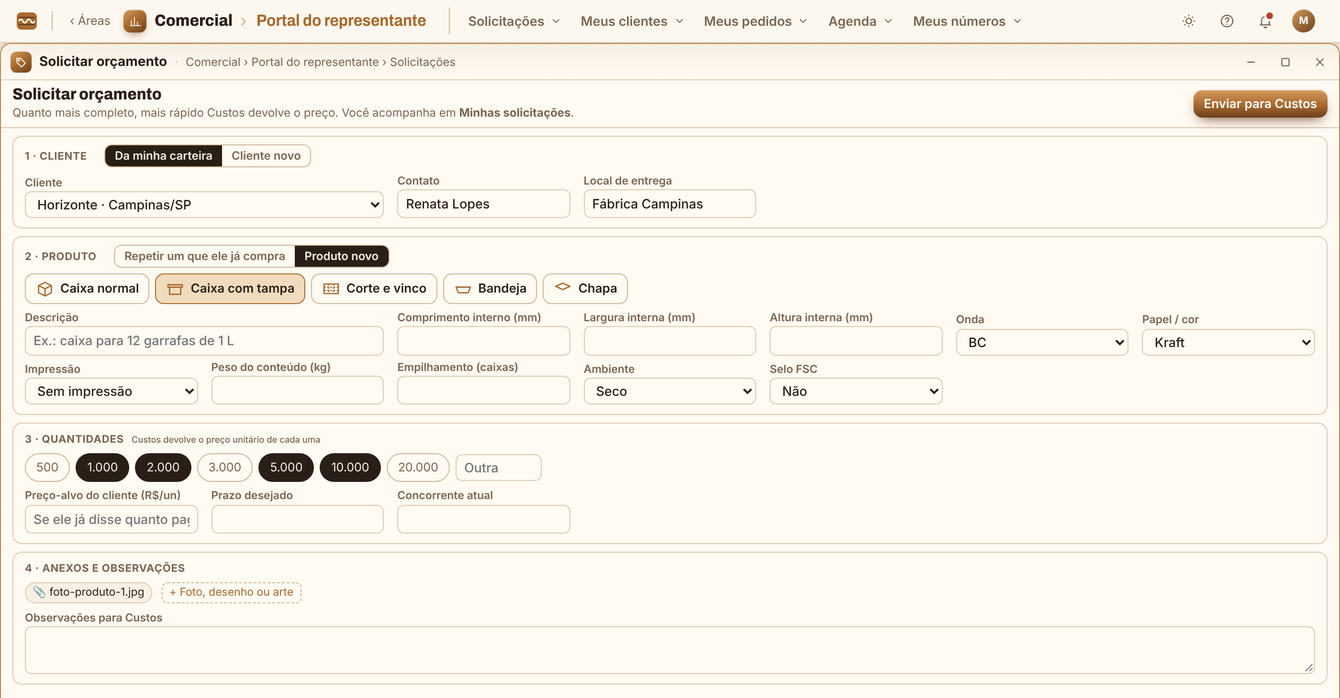
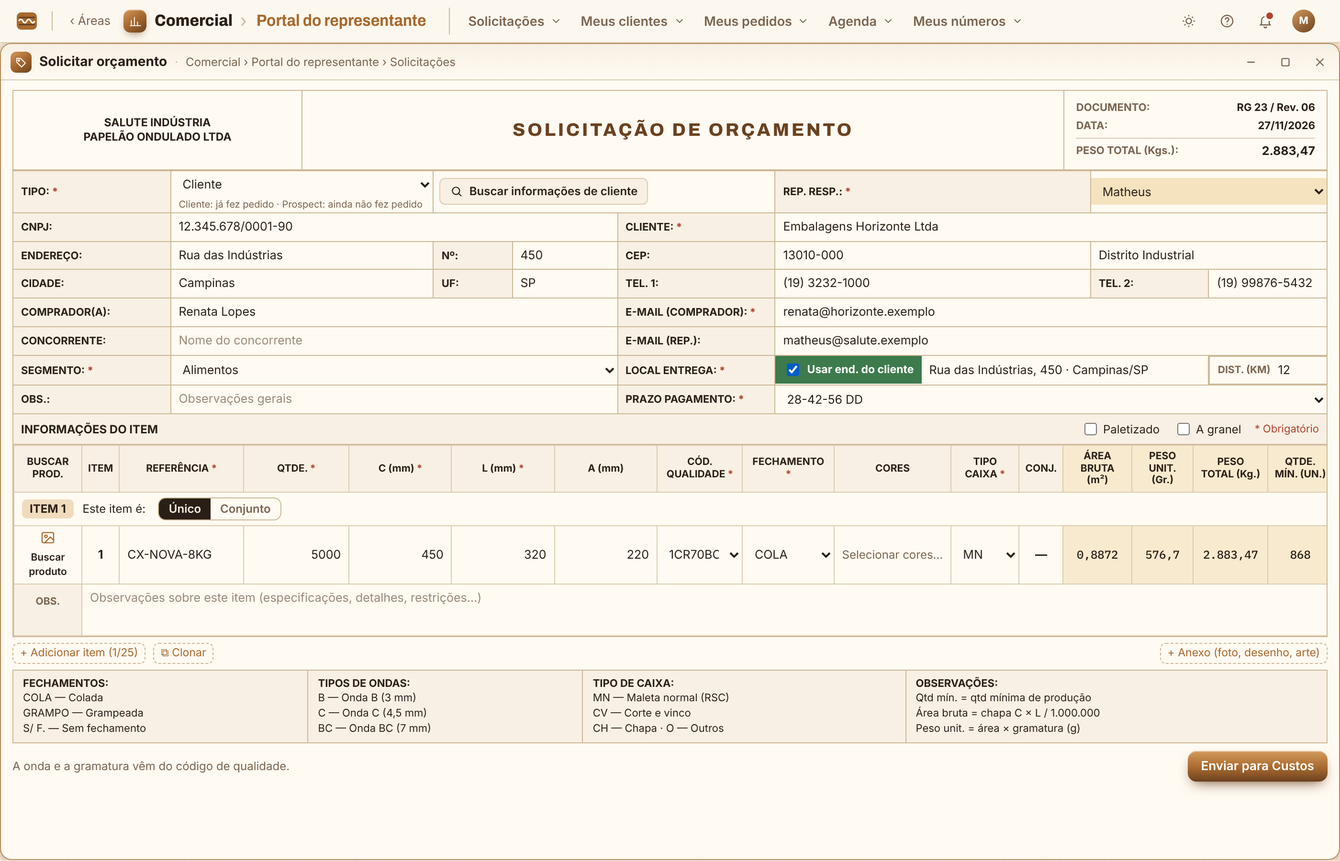
Portal: Solicitação de orçamento no layout da ficha do CRM Salute, com cores do ERP
Claude-Session: https://claude.ai/code/session_015kL8p4eCaL1huCADCSMStj

Changed region(s): [[0.0, 0.0, 1.0, 0.8938], [0.0, 0.9863, 1.0, 1.0], [0.87, 0.863, 0.9943, 0.9247]]

diff --git a/prototipo/tela-inicial-e-comercial.html b/prototipo/tela-inicial-e-comercial.html
@@ -574,6 +574,76 @@ textarea.falta{border-color:var(--bad)!important}
 .po-ped-cab .pill{margin-left:auto}
 .po-ped .pd-etapas{margin:4px 0 0}
 .cl-novo-reg{display:flex}
+/* Solicitação de orçamento: layout da ficha RG 23 do CRM Salute, cores do ERP */
+.so-folha{padding:10px 12px 14px;display:grid;gap:0;font-size:12.5px}
+.so-folha table{border-collapse:collapse;width:100%}
+.so-folha td,.so-folha th{border:1px solid var(--line-2);padding:0}
+.so-cab td{padding:8px 12px;background:var(--surface)}
+.so-emp{width:22%;text-align:center;font-weight:700;font-size:11.5px;line-height:1.3}
+.so-tit{text-align:center;font-family:var(--f-display);font-weight:800;font-size:19px;letter-spacing:.12em;color:var(--kraft-deep)}
+.so-doc{width:20%;font-size:11px}
+.so-doc div{display:flex;justify-content:space-between;gap:8px;padding:1px 0}
+.so-doc span{font-weight:700;color:var(--muted)}
+.so-peso{border-top:1px solid var(--line);margin-top:4px;padding-top:4px!important}
+.so-peso b{font-size:12.5px}
+.so-grade{border-top:0}
+.so-grade>tbody>tr>th,.so-grade>tr>th{background:var(--surface-2);text-align:left;font-size:11px;font-weight:700;padding:5px 8px;white-space:nowrap;color:var(--ink)}
+.so-folha th i{font-style:normal;color:var(--bad)}
+.so-folha input,.so-folha select,.so-folha textarea{width:100%;border:0;background:transparent;font:inherit;font-size:12.5px;color:var(--ink);padding:5px 8px;min-height:28px}
+.so-folha input::placeholder,.so-folha textarea::placeholder{color:var(--muted);opacity:.75}
+.so-folha input:focus,.so-folha select:focus,.so-folha textarea:focus{outline:2px solid var(--kraft);outline-offset:-2px;background:var(--surface)}
+.so-folha input.num{text-align:right}
+.so-ajuda{display:block;font-size:10px;color:var(--muted);padding:0 8px 3px;line-height:1.2}
+.so-busca{display:inline-flex;align-items:center;gap:6px;margin:4px 6px;border:1px solid var(--line);background:var(--surface-2);border-radius:6px;padding:4px 10px;font-size:12px;font-weight:600;cursor:pointer}
+.so-busca svg{width:14px;height:14px}
+.so-lista{display:grid;margin:0 6px 6px;border:1px solid var(--line-2);border-radius:8px;background:var(--surface);max-height:160px;overflow:auto}
+.so-lista button{border:0;background:transparent;text-align:left;padding:5px 10px;cursor:pointer;font-size:12.5px}
+.so-lista button:hover{background:var(--kraft-soft)}
+.so-lista small{color:var(--muted)}
+.so-dest select{background:var(--warn-soft)}
+.so-fixo{padding:5px 8px!important}
+.so-usar{display:flex;align-items:center;gap:5px;padding:5px 8px;font-size:11.5px;font-weight:700;cursor:pointer;white-space:nowrap;background:var(--surface-2)}
+.so-usar input{width:auto;min-height:0}
+.so-ent{display:flex;align-items:stretch}
+.so-ent input{flex:1}
+.so-usar.on{background:var(--ok);color:#fff}
+.so-dist{display:flex;align-items:center}
+.so-dist span{font-size:10.5px;font-weight:700;color:var(--muted);padding-left:8px;white-space:nowrap}
+.so-secao{display:flex;justify-content:space-between;align-items:center;padding:6px 8px;border:1px solid var(--line-2);border-top:0;background:var(--surface-2);font-size:12px}
+.so-secao span{display:flex;gap:14px;align-items:center;font-size:12px}
+.so-secao label{display:flex;gap:4px;align-items:center}
+.so-secao input{width:auto;min-height:0}
+.so-secao i{font-style:normal;color:var(--bad);font-size:11px}
+.so-rolagem{overflow-x:auto;border:1px solid var(--line-2);border-top:0}
+.so-itens{min-width:1500px}
+.so-itens td,.so-itens th{border-color:var(--line)}
+.so-itens>thead th{background:var(--surface-2);font-size:10.5px;font-weight:700;padding:5px 6px;text-align:center;line-height:1.2}
+.so-itens th.so-calc,.so-itens td.so-calc{background:color-mix(in srgb,var(--warn-soft) 70%,var(--surface));text-align:center}
+.so-itens td.so-calc{font-family:var(--f-mono);font-size:12px}
+.so-itcab td{padding:5px 8px!important;background:var(--surface);font-size:12px}
+.so-itnum{display:inline-block;background:var(--kraft-soft);border-radius:5px;padding:1px 8px;font-weight:700;margin-right:6px}
+.so-bp button{border:0;background:transparent;font-size:10.5px;font-weight:600;cursor:pointer;color:var(--ink);padding:4px}
+.so-bp svg{width:16px;height:16px;color:var(--kraft)}
+.so-n{text-align:center;font-weight:700}
+.so-forte{font-weight:700}
+.so-cores{position:relative}
+.so-cores summary{list-style:none;cursor:pointer;padding:5px 8px;font-size:12px;color:var(--muted);white-space:nowrap;overflow:hidden;text-overflow:ellipsis;max-width:190px}
+.so-cores div{position:absolute;z-index:5;background:var(--surface);border:1px solid var(--line-2);border-radius:8px;padding:6px 10px;display:grid;gap:2px;box-shadow:0 10px 24px -14px var(--shadow)}
+.so-cores label{display:flex;gap:6px;align-items:center;font-size:12px;white-space:nowrap}
+.so-cores input{width:auto;min-height:0}
+.so-comps td{padding:6px 8px!important;background:var(--surface-2)}
+.so-comps table th{font-size:10px;padding:3px 5px;background:var(--surface)}
+.so-comps table td{padding:0!important;background:var(--surface)}
+.so-na{display:block;text-align:center;color:var(--line-2)}
+.so-obs td{vertical-align:top}
+.so-obsrot{font-size:10.5px;font-weight:700;text-align:center;padding-top:10px!important;color:var(--muted);background:var(--surface-2)}
+.so-obs textarea{min-height:46px;resize:vertical}
+.so-acoes-it{display:flex;gap:8px;align-items:center;padding:6px 0;flex-wrap:wrap}
+.so-anexos{display:flex;gap:6px;align-items:center;margin-left:auto;flex-wrap:wrap}
+.so-legenda td{padding:6px 10px!important;font-size:11px;line-height:1.45;vertical-align:top;background:var(--surface-2)}
+.so-rodape{display:flex;align-items:center;gap:10px;justify-content:space-between;padding-top:8px;font-size:12px;color:var(--muted)}
+.so-erro{color:var(--bad)}
+.so-rodape .go{padding:6px 14px;font-size:13px}
 .cl-nome small b{font-size:inherit;font-family:inherit;font-weight:700;line-height:inherit}
 .pd-corpo .btn2,.pd-corpo .go{padding:5px 11px;font-size:13px}
 .ca-det>td{background:var(--surface-2);padding:6px 10px 8px!important}
@@ -3703,71 +3773,141 @@ const TIPOS_CAIXA = [
 const minhaCarteira = () => CLIENTES.filter(c => c.rep === REP_LOGADO);
 const pillSol = (s) => { const et = ETAPAS_SOL[s.tipo]; const fim = s.etapa >= et.length - 1; return `<span class="pill ${fim ? 'p-ok' : s.etapa >= 2 ? 'p-warn' : 'p-info'}">${et[s.etapa]}</span>`; };
 
-/* ── Solicitar orçamento ── */
+/* ── Solicitar orçamento: MESMO LAYOUT da "Solicitação de Orçamento" do CRM Salute (ficha RG 23),
+   com as cores do nosso ERP. Regras de cálculo iguais às do CRM Salute:
+   chapa MN = (C+L)×2+fator × L+A+fator (B/C: 40/10 · BC: 50/18); CV = C+30 × L+30; CH = C × L;
+   área = chapa/1.000.000 m²; peso unit = área × gramatura (g); qtde mín = 500.000 / peso unit. */
+const QUALIDADES = [['BFS','C',260],['1R40B','B',360],['1R40C','C',370],['1R45B','B',370],['1R45C','C',380],['1R70BC','BC',650],['1CR40B','B',360],['1CR40C','C',370],['1CR45B','B',370],['1CR45C','C',380],['1CR50B','B',410],['1CR50C','C',420],['1CR55B','B',420],['1CR55C','C',430],['3CR45B','B',380],['3CR45C','C',390],['1CR70BC','BC',650],['1CR75BC','BC',680],['1CR80BC','BC',710],['1TL50B','B',410],['1TL55C','C',430],['1TL60C','C',450],['1TL65C','C',490],['1TL70C','C',530],['1TL80BC','BC',680],['1TL90BC','BC',700]];
+const QD = Object.fromEntries(QUALIDADES.map(([n, o, g]) => [n, { onda:o, gram:g }]));
+const SEGMENTOS_SO = ['Alimentos','Avicultura (ovos)','Bebidas (refrigerantes e alcoólicos)','Chapa (produto chapa)','Cosméticos (cremes, perfumes)','Farmacêuticos (medicamentos)','Fumos','Horticultura e Fruticultura','Higiene e Limpeza','Laticínios (leite, yogurt, queijos)','Madeira e Mobiliários','Materiais de Transporte (caixa mudança)','Material Elétrico e de Comunicação','Mecânica (automobilístico)','Metalúrgica','Plásticos e Borrachas (potes, tapetes)','Proteínas (abates e processados)','Químicos e derivados (óleo, graxa)','Têxteis, Vestuários, calçados','Vidros e Cerâmicas','Outros'];
+const PRAZOS_SO = ['10 DD','14-28 DD','21-28-35 DD','28 DD','28-35-42','28-42-56 DD','30 DD','30-45 DD','30-60 DD','35 DD','42 DD','45-60 DD','30-45-60','120 DD'];
+const CORES_SO = ['Preto','Azul','Vermelho','Verde','Amarelo','Laranja','Marrom','Branco'];
+const COMPONENTES_SO = ['Caixa','Colmeia','Divisória','Tabuleiro','Separador','Calço','Cantoneira','Divisória montada','Cinta'];
+const novoItemSO = (n) => ({ n, ref:'', qtd:0, c:0, l:0, a:0, qual:'', fech:'', cores:[], tipo:'', conj:false, comps:[], preco:'', obs:'' });
+function calcSO(it){
+  const q = QD[it.qual]; if (!q || it.c <= 0 || it.l <= 0) return { area:0, pu:0, pt:0, min:0, onda: q ? q.onda : '' };
+  let cc, ll;
+  if (it.tipo === 'CV') { cc = it.c + 30; ll = it.l + 30; }
+  else if (it.tipo === 'CH' || !it.a) { cc = it.c; ll = it.l; }
+  else { const f = q.onda === 'BC' ? [50, 18] : [40, 10]; cc = (it.c + it.l) * 2 + f[0]; ll = it.l + it.a + f[1]; }
+  const area = cc * ll / 1e6, pu = area * q.gram;
+  return { area, pu, pt: pu * it.qtd / 1000, min: pu > 0 ? Math.ceil(500000 / pu) : 0, onda: q.onda };
+}
+const n2 = (v, d = 2) => (+v || 0).toLocaleString('pt-BR', { minimumFractionDigits:d, maximumFractionDigits:d });
+const sel = (k, val, ops, extra = '') => `<select data-so="${k}" ${extra}><option value="">Selecione…</option>${ops.map(o => { const [v, t] = Array.isArray(o) ? o : [o, o]; return `<option value="${esc(v)}"${String(val) === String(v) ? ' selected' : ''}>${esc(t)}</option>`; }).join('')}</select>`;
+const inp = (k, val, ph = '', extra = '') => `<input data-so="${k}" value="${esc(String(val ?? ''))}" placeholder="${esc(ph)}" ${extra}>`;
+
 TELAS.portalOrcamento = (box) => {
-  box.classList.add('cl-box'); box._q = [1000, 2000, 5000]; box._tipo = 'normal'; box._modoCli = 'carteira'; box._modoProd = 'novo'; box._anexos = [];
-  if (box._preCli) { box._cli = box._preCli; box._modoProd = (PRODUTOS_CLI[box._cli] || []).length ? 'repetir' : 'novo'; }
-  const desenha = () => {
-    const cart = minhaCarteira().filter(c => c.status === 'Ativo');
-    const cliSel = box._cli ? cliDe(box._cli) : null, prods = cliSel ? (PRODUTOS_CLI[cliSel.id] || []) : [];
-    box.innerHTML = `<div class="cl-ficha editando"><div class="cl-cab"><div class="cl-nome"><b>Solicitar orçamento</b><small>Quanto mais completo, mais rápido Custos devolve o preço. Você acompanha em <b>Minhas solicitações</b>.</small></div>
-      <span class="cl-acoes"><button class="go" type="button" data-po-enviar>Enviar para Custos</button></span></div>
-    <div class="pd-corpo">
-      <section class="cl-bloco"><h4>1 · Cliente <span class="po-seg"><button type="button" data-po-mcli="carteira" aria-pressed="${box._modoCli === 'carteira'}">Da minha carteira</button><button type="button" data-po-mcli="novo" aria-pressed="${box._modoCli === 'novo'}">Cliente novo</button></span></h4>
-        ${box._modoCli === 'carteira' ? `<div class="cl-grade"><label class="cf dupla"><span>Cliente</span><select id="poCli"><option value="">Escolha…</option>${cart.map(c => `<option value="${c.id}"${box._cli === c.id ? ' selected' : ''}>${esc(nomeExib(c))} · ${esc(c.end.cidade)}/${c.end.uf}</option>`).join('')}</select></label>
-            ${cliSel ? f('Contato', (cliSel.contatos[0] || {}).nome) + f('Local de entrega', (cliSel.entregas[0] || {}).nome || '') : ''}</div>`
-        : `<div class="cl-grade">${f('CNPJ', '', { ph:'00.000.000/0000-00', botao:['Buscar na Receita','po-receita'] })}${f('Razão social', box._novoRazao || '', { dupla:true, ph:'Preenchido pela Receita' })}${f('Cidade/UF', box._novoCid || '')}
-            ${f('Contato', '')}${f('Telefone', '')}${f('E-mail', '')}${f('Segmento / o que o cliente embala', '', { dupla:true })}</div>
-            <div class="cl-txt">O pessoal de Vendas cadastra o cliente com esses dados. Você não precisa preencher mais nada.</div>`}
-      </section>
-      <section class="cl-bloco"><h4>2 · Produto ${prods.length ? `<span class="po-seg"><button type="button" data-po-mprod="repetir" aria-pressed="${box._modoProd === 'repetir'}">Repetir um que ele já compra</button><button type="button" data-po-mprod="novo" aria-pressed="${box._modoProd === 'novo'}">Produto novo</button></span>` : ''}</h4>
-        ${box._modoProd === 'repetir' && prods.length ? `<div class="pd-prods">${prods.map(pr => `<label class="pd-prod po-rep"><input type="radio" name="poRep" value="${pr.cod}"> <b>${esc(pr.desc)}</b><small>${pr.cod} · ${pr.med} · onda ${pr.onda}</small></label>`).join('')}</div><div class="cl-grade">${f('O que muda?', '', { dupla:true, ph:'Ex.: nova quantidade, nova arte, papel diferente' })}</div>`
-        : `<div class="po-tipos">${TIPOS_CAIXA.map(([k, n, d]) => `<button type="button" class="po-tipo" data-po-tipo="${k}" aria-pressed="${box._tipo === k}"><svg viewBox="0 0 24 24" fill="none" stroke="currentColor" stroke-width="1.6" stroke-linejoin="round">${d}</svg>${n}</button>`).join('')}</div>
-          <div class="cl-grade">
-            ${f('Descrição', '', { dupla:true, ph:'Ex.: caixa para 12 garrafas de 1 L' })}
-            ${box._tipo === 'chapa' ? f('Comprimento (mm)', '') + f('Largura (mm)', '') : f('Comprimento interno (mm)', '') + f('Largura interna (mm)', '') + f('Altura interna (mm)', '')}
-            ${f('Onda', 'BC', { opcoes:['B','C','BC','E','Não sei — Custos sugere'] })}
-            ${f('Papel / cor', 'Kraft', { opcoes:['Kraft','Branco','Não sei — Custos sugere'] })}
-            ${f('Impressão', 'Sem impressão', { opcoes:['Sem impressão','1 cor','2 cores','3 cores','4 cores'] })}
-            ${f('Peso do conteúdo (kg)', '')}${f('Empilhamento (caixas)', '')}
-            ${f('Ambiente', 'Seco', { opcoes:['Seco','Úmido','Câmara fria / congelado'] })}
-            ${f('Selo FSC', 'Não', { opcoes:['Não','Sim'] })}</div>`}
-      </section>
-      <section class="cl-bloco"><h4>3 · Quantidades <small>Custos devolve o preço unitário de cada uma</small></h4>
-        <div class="po-qtds">${[500, 1000, 2000, 3000, 5000, 10000, 20000].map(q => `<button type="button" class="chip" data-po-q="${q}" aria-pressed="${box._q.includes(q)}">${q.toLocaleString('pt-BR')}</button>`).join('')}<label class="cf po-outra"><input placeholder="Outra"></label></div>
-        <div class="cl-grade">${f('Preço-alvo do cliente (R$/un)', '', { ph:'Se ele já disse quanto paga hoje' })}${f('Prazo desejado', '')}${f('Concorrente atual', '')}</div>
-      </section>
-      <section class="cl-bloco"><h4>4 · Anexos e observações</h4>
-        <div class="po-anexos">${box._anexos.map(a => `<span class="pd-ent">📎 ${esc(a)}</span>`).join('')}<button type="button" class="pd-mais" data-po-anexo>+ Foto, desenho ou arte</button></div>
-        <div class="cl-grade">${f('Observações para Custos', '', { texto:true, larga:true })}</div>
-      </section>
-    </div></div>`;
-    box.querySelectorAll('input,select,textarea').forEach(el => el.disabled = false);
-  };
-  box.addEventListener('change', (e) => { if (e.target.id === 'poCli') { box._cli = +e.target.value || null; box._modoProd = (PRODUTOS_CLI[box._cli] || []).length ? 'repetir' : 'novo'; desenha(); } });
-  box.addEventListener('click', (e) => {
-    const t = (s) => e.target.closest(s);
-    if (t('[data-po-mcli]')) { box._modoCli = t('[data-po-mcli]').dataset.poMcli; box._cli = null; box._modoProd = 'novo'; return desenha(); }
-    if (t('[data-po-mprod]')) { box._modoProd = t('[data-po-mprod]').dataset.poMprod; return desenha(); }
-    if (t('[data-po-tipo]')) { box._tipo = t('[data-po-tipo]').dataset.poTipo; return desenha(); }
-    if (t('[data-po-q]')) { const q = +t('[data-po-q]').dataset.poQ; box._q = box._q.includes(q) ? box._q.filter(x => x !== q) : box._q.concat(q).sort((a, b) => a - b); return desenha(); }
-    if (t('[data-acao-f="po-receita"]')) { box._novoRazao = 'Bebidas Serra Clara Ltda'; box._novoCid = 'Jundiaí/SP'; desenha(); return toast('Dados trazidos da Receita (exemplo)'); }
-    if (t('[data-po-anexo]')) { box._anexos.push('foto-produto-' + (box._anexos.length + 1) + '.jpg'); return desenha(); }
-    if (t('[data-po-enviar]')) {
-      if (box._modoCli === 'carteira' && !box._cli) return toast('Escolha o cliente');
-      if (!box._q.length) return toast('Escolha pelo menos uma quantidade');
-      const n = 'SO-2026-' + String(Math.max(...SOLICITACOES.map(s => +s.p.slice(-4))) + 1).padStart(4, '0');
-      const c = box._cli ? cliDe(box._cli) : null;
-      SOLICITACOES.unshift({ p:n, tipo:'Orçamento', cli: c ? nomeExib(c) : (box._novoRazao || 'Cliente novo'), novo: !c, prod: (box.querySelector('input[placeholder^="Ex.: caixa"]') || {}).value || 'Produto', data:'27/11', etapa:0, resp:'Custos' });
-      box.innerHTML = `<div class="cl-novo-tela"><div class="okbox"><span>✓</span><span>Solicitação <b class="proto">${n}</b> enviada para <b>Custos</b>.<br>Quantidades: ${box._q.map(q => q.toLocaleString('pt-BR')).join(' · ')}. Você recebe aviso quando o preço estiver pronto.</span></div>
-        <div><button class="btn2" type="button" data-po-nova>Nova solicitação</button></div></div>`;
-      document.querySelectorAll('[data-po-lista]').forEach(b => b._redesenha && b._redesenha());
-      return;
-    }
-    if (t('[data-po-nova]')) { box._cli = null; box._anexos = []; box._q = [1000, 2000, 5000]; return desenha(); }
-  });
-  desenha();
+  box.classList.add('cl-box');
+  const st = box._so = { tipo:'', cli:null, rep: REP_LOGADO, cnpj:'', nome:'', end:'', num:'', cep:'', bairro:'', cidade:'', uf:'', tel1:'', tel2:'', comprador:'', email:'', concorrente:'', segmento:'', entrega:'', usarEnd:false, dist:'', obs:'', prazo:'', paletizado:false, granel:false, itens:[ novoItemSO(1) ], ativo:0 };
+  if (box._preCli) preencherCli(st, box._preCli);
+  desenharSO(box);
+  box.addEventListener('input', (e) => lerCampoSO(box, e.target, false));
+  box.addEventListener('change', (e) => lerCampoSO(box, e.target, true));
+  box.addEventListener('click', (e) => cliqueSO(box, e));
 };
+function preencherCli(st, id){
+  const c = cliDe(id); if (!c) return;
+  const k = c.contatos[0] || {};
+  Object.assign(st, { tipo: ehCli(c) ? 'Cliente' : 'Prospect', cli:id, cnpj:c.cnpj, nome:c.razao, end:c.end.log, num:c.end.num, cep:c.end.cep, bairro:c.end.bairro, cidade:c.end.cidade, uf:c.end.uf,
+    tel1:k.tel || '', tel2:k.cel || '', comprador:k.nome || '', email:k.email || '', segmento: SEGMENTOS_SO.find(s => norm(s).includes(norm(c.segmento).slice(0,5))) || '', prazo:'28-42-56 DD' });
+}
+function lerCampoSO(box, el, redesenha){
+  const k = el.dataset.so; if (!k) return;
+  const st = box._so, v = el.type === 'checkbox' ? el.checked : el.value;
+  const m = k.match(/^it(\d+)\.(\w+)$/), mc = k.match(/^it(\d+)\.comp(\d+)\.(\w+)$/);
+  if (mc) { const comp = st.itens[+mc[1]].comps[+mc[2]]; comp[mc[3]] = ['qtd','c','l','a'].includes(mc[3]) ? (+String(v).replace(/\./g, '').replace(',', '.') || 0) : v; }
+  else if (m) { const it = st.itens[+m[1]]; it[m[2]] = ['qtd','c','l','a'].includes(m[2]) ? (+String(v).replace(/\./g, '').replace(',', '.') || 0) : v; }
+  else st[k] = v;
+  if (k === 'tipo' && v === 'Cliente' && !st.cli) toast('Use "Buscar informações de cliente" para puxar os dados');
+  if (redesenha && (k === 'usarEnd' || /\.(qual|tipo)$/.test(k))) { if (k === 'usarEnd' && v) st.entrega = st.end ? `${st.end}, ${st.num} · ${st.cidade}/${st.uf}` : ''; return desenharSO(box); }
+  atualizarCalcSO(box);
+}
+function atualizarCalcSO(box){
+  const st = box._so; let tot = 0;
+  st.itens.forEach((it, i) => { const r = calcSO(it); tot += r.pt;
+    const set = (s, t) => { const e = box.querySelector(`[data-calc="${i}.${s}"]`); if (e) e.textContent = t; };
+    set('area', n2(r.area, 4)); set('pu', n2(r.pu, 1)); set('pt', n2(r.pt)); set('min', r.min ? un(r.min) : '0'); });
+  const h = box.querySelector('[data-so-peso]'); if (h) h.textContent = n2(tot);
+}
+function desenharSO(box){
+  const st = box._so, nItens = st.itens.length;
+  const tot = st.itens.reduce((a, it) => a + calcSO(it).pt, 0);
+  const R = (rot, obrig) => `<th>${rot}${obrig ? ' <i>*</i>' : ''}</th>`;
+  box.innerHTML = `<div class="so-folha">
+  <table class="so-cab"><tr>
+    <td class="so-emp">SALUTE INDÚSTRIA<br>PAPELÃO ONDULADO LTDA</td>
+    <td class="so-tit">SOLICITAÇÃO DE ORÇAMENTO</td>
+    <td class="so-doc"><div><span>DOCUMENTO:</span><b>RG 23 / Rev. 06</b></div><div><span>DATA:</span><b>27/11/2026</b></div><div class="so-peso"><span>PESO TOTAL (Kgs.):</span><b data-so-peso>${n2(tot)}</b></div></td>
+  </tr></table>
+  <table class="so-grade">
+    <colgroup><col style="width:12%"><col style="width:20%"><col style="width:6%"><col style="width:8%"><col style="width:12%"><col style="width:24%"><col style="width:9%"><col style="width:9%"></colgroup>
+    <tr>${R('TIPO:', 1)}<td>${sel('tipo', st.tipo, ['Cliente','Prospect'])}<small class="so-ajuda">Cliente: já fez pedido · Prospect: ainda não fez pedido</small></td>
+      <td colspan="3"><button type="button" class="so-busca" data-so-buscar>${LUPA} Buscar informações de cliente</button>${st.buscando ? `<div class="so-lista">${minhaCarteira().map(c => `<button type="button" data-so-cli="${c.id}"><b>${esc(nomeExib(c))}</b> <small>${c.cnpj} · ${esc(c.end.cidade)}</small></button>`).join('')}</div>` : ''}</td>
+      ${R('REP. RESP.:', 1)}<td colspan="2" class="so-dest">${sel('rep', st.rep, [REP_LOGADO])}</td></tr>
+    <tr>${R('CNPJ:')}<td colspan="3">${inp('cnpj', st.cnpj, '00.000.000/0000-00')}</td>${R('CLIENTE:', 1)}<td colspan="3">${inp('nome', st.nome, 'Nome do cliente / prospect *')}</td></tr>
+    <tr>${R('ENDEREÇO:')}<td>${inp('end', st.end, 'Rua / Av.')}</td>${R('Nº:')}<td>${inp('num', st.num, 'Nº')}</td>${R('CEP:')}<td>${inp('cep', st.cep, '00000-000')}</td><td colspan="2">${inp('bairro', st.bairro, 'Bairro')}</td></tr>
+    <tr>${R('CIDADE:')}<td>${inp('cidade', st.cidade, 'Cidade')}</td>${R('UF:')}<td>${inp('uf', st.uf, 'SP')}</td>${R('TEL. 1:')}<td>${inp('tel1', st.tel1, '(11) 00000-0000')}</td>${R('TEL. 2:')}<td>${inp('tel2', st.tel2, '(11) 00000-0000')}</td></tr>
+    <tr>${R('COMPRADOR(A):')}<td colspan="3">${inp('comprador', st.comprador, 'Nome do comprador')}</td>${R('E-MAIL (COMPRADOR):', 1)}<td colspan="3">${inp('email', st.email, 'email@empresa.com.br')}</td></tr>
+    <tr>${R('CONCORRENTE:')}<td colspan="3">${inp('concorrente', st.concorrente, 'Nome do concorrente')}</td>${R('E-MAIL (REP.):')}<td colspan="3" class="so-fixo">matheus@salute.exemplo</td></tr>
+    <tr>${R('SEGMENTO:', 1)}<td colspan="3">${sel('segmento', st.segmento, SEGMENTOS_SO)}</td>${R('LOCAL ENTREGA:', 1)}<td colspan="2"><div class="so-ent"><label class="so-usar${st.usarEnd ? ' on' : ''}"><input type="checkbox" data-so="usarEnd"${st.usarEnd ? ' checked' : ''}> Usar end. do cliente</label>${inp('entrega', st.entrega, 'Ou digite o endereço manualmente…')}</div></td><td class="so-dist"><span>DIST. (KM)</span>${inp('dist', st.dist || (st.usarEnd ? '12' : ''), '0')}</td></tr>
+    <tr>${R('OBS.:')}<td colspan="3">${inp('obs', st.obs, 'Observações gerais')}</td>${R('PRAZO PAGAMENTO:', 1)}<td colspan="3">${sel('prazo', st.prazo, PRAZOS_SO)}</td></tr>
+  </table>
+  <div class="so-secao"><b>INFORMAÇÕES DO ITEM</b><span><label><input type="checkbox" data-so="paletizado"${st.paletizado ? ' checked' : ''}> Paletizado</label><label><input type="checkbox" data-so="granel"${st.granel ? ' checked' : ''}> A granel</label><i>* Obrigatório</i></span></div>
+  <div class="so-rolagem"><table class="so-itens"><thead><tr><th>BUSCAR PROD.</th><th>ITEM</th>${R('REFERÊNCIA', 1)}${R('QTDE.', 1)}${R('C (mm)', 1)}${R('L (mm)', 1)}<th>A (mm)</th>${R('CÓD. QUALIDADE', 1)}${R('FECHAMENTO', 1)}<th>CORES</th>${R('TIPO CAIXA', 1)}<th>CONJ.</th><th class="so-calc">ÁREA BRUTA (m²)</th><th class="so-calc">PESO UNIT. (Gr.)</th><th class="so-calc">PESO TOTAL (Kg.)</th><th class="so-calc">QTDE. MÍN. (UN.)</th><th>PREÇO CONC. (R$/Unit.)</th></tr></thead>
+  <tbody>${st.itens.map((it, i) => { const r = calcSO(it), k = (c) => `it${i}.${c}`; return `
+    <tr class="so-itcab"><td colspan="17"><span class="so-itnum">ITEM ${it.n}</span> Este item é: <span class="po-seg"><button type="button" data-so-conj="${i}.0" aria-pressed="${!it.conj}">Único</button><button type="button" data-so-conj="${i}.1" aria-pressed="${it.conj}">Conjunto</button></span>${nItens > 1 ? `<button type="button" class="pd-x" data-so-rm="${i}" title="Remover item">×</button>` : ''}</td></tr>
+    <tr><td class="so-bp"><button type="button" data-so-prod="${i}">${IIMG}<br>Buscar produto</button></td><td class="so-n">${it.n}</td>
+      <td>${inp(k('ref'), it.ref, 'Ref.')}</td><td>${inp(k('qtd'), it.qtd || '', '0', 'class="num"')}</td><td>${inp(k('c'), it.c || '', '0', 'class="num"')}</td><td>${inp(k('l'), it.l || '', '0', 'class="num"')}</td><td>${inp(k('a'), it.a || '', '0', 'class="num"')}</td>
+      <td>${sel(k('qual'), it.qual, QUALIDADES.map(q => q[0]), 'class="so-forte"')}</td><td>${sel(k('fech'), it.fech, [['COLA','COLA'],['GRAMPO','GRAMPO'],['S/ F.','S/ F.']])}</td>
+      <td><details class="so-cores"><summary>${it.cores.length ? esc(it.cores.join(', ')) : 'Selecionar cores…'}</summary><div>${CORES_SO.map(c => `<label><input type="checkbox" data-so-cor="${i}" value="${c}"${it.cores.includes(c) ? ' checked' : ''}> ${c}</label>`).join('')}</div></details></td>
+      <td>${sel(k('tipo'), it.tipo, [['MN','MN'],['CV','CV'],['CH','CH'],['O','O']])}</td><td class="so-n">${it.conj ? it.comps.length + 1 : '—'}</td>
+      <td class="so-calc" data-calc="${i}.area">${n2(r.area, 4)}</td><td class="so-calc" data-calc="${i}.pu">${n2(r.pu, 1)}</td><td class="so-calc" data-calc="${i}.pt">${n2(r.pt)}</td><td class="so-calc" data-calc="${i}.min">${r.min ? un(r.min) : '0'}</td>
+      <td>${inp(k('preco'), it.preco, 'R$ 0,00', 'class="num"')}</td></tr>
+    ${it.conj ? `<tr class="so-comps"><td colspan="17"><table><thead><tr><th>COMPONENTE</th><th>REFERÊNCIA</th><th>QTDE.</th><th>C (mm)</th><th>L (mm)</th><th>A (mm)</th><th>CÓD. QUALIDADE</th><th></th></tr></thead><tbody>${it.comps.map((cp, j) => { const kk = (c) => `it${i}.comp${j}.${c}`; return `<tr><td>${sel(kk('tipo'), cp.tipo, COMPONENTES_SO)}</td><td>${inp(kk('ref'), cp.ref, 'Ref.')}</td><td>${inp(kk('qtd'), cp.qtd || '', '0', 'class="num"')}</td><td>${inp(kk('c'), cp.c || '', '0', 'class="num"')}</td><td>${inp(kk('l'), cp.l || '', '0', 'class="num"')}</td><td>${cp.tipo === 'Caixa' ? inp(kk('a'), cp.a || '', '0', 'class="num"') : '<span class="so-na">✕</span>'}</td><td>${sel(kk('qual'), cp.qual, QUALIDADES.map(q => q[0]))}</td><td><button type="button" class="pd-x" data-so-rmc="${i}.${j}">×</button></td></tr>`; }).join('')}</tbody></table><button type="button" class="pd-mais" data-so-addc="${i}">+ Componente</button></td></tr>` : ''}
+    <tr class="so-obs"><td class="so-obsrot">OBS.</td><td colspan="16"><textarea data-so="${k('obs')}" placeholder="Observações sobre este item (especificações, detalhes, restrições…)">${esc(it.obs)}</textarea></td></tr>`; }).join('')}
+  </tbody></table></div>
+  <div class="so-acoes-it"><button type="button" class="pd-mais" data-so-add${nItens >= 25 ? ' disabled' : ''}>+ Adicionar item (${nItens}/25)</button><button type="button" class="pd-mais" data-so-clonar>⧉ Clonar</button>
+    <span class="so-anexos">${(st.anexos || []).map(a => `<span class="pd-ent">📎 ${esc(a)}</span>`).join('')}<button type="button" class="pd-mais" data-so-anexo>+ Anexo (foto, desenho, arte)</button></span></div>
+  <table class="so-legenda"><tr>
+    <td><b>FECHAMENTOS:</b><br>COLA — Colada<br>GRAMPO — Grampeada<br>S/ F. — Sem fechamento</td>
+    <td><b>TIPOS DE ONDAS:</b><br>B — Onda B (3 mm)<br>C — Onda C (4,5 mm)<br>BC — Onda BC (7 mm)</td>
+    <td><b>TIPO DE CAIXA:</b><br>MN — Maleta normal (RSC)<br>CV — Corte e vinco<br>CH — Chapa · O — Outros</td>
+    <td><b>OBSERVAÇÕES:</b><br>Qtd mín. = qtd mínima de produção<br>Área bruta = chapa C × L / 1.000.000<br>Peso unit. = área × gramatura (g)</td>
+  </tr></table>
+  <div class="so-rodape"><span>A onda e a gramatura vêm do código de qualidade.</span><button type="button" class="go" data-so-enviar>Enviar para Custos</button></div>
+  </div>`;
+}
+function cliqueSO(box, e){
+  const st = box._so, t = (s) => e.target.closest(s);
+  if (t('[data-so-buscar]')) { st.buscando = !st.buscando; return desenharSO(box); }
+  if (t('[data-so-cli]')) { preencherCli(st, +t('[data-so-cli]').dataset.soCli); st.buscando = false; desenharSO(box); return toast('Dados do cliente preenchidos'); }
+  if (t('[data-so-conj]')) { const [i, v] = t('[data-so-conj]').dataset.soConj.split('.'); const it = st.itens[+i]; it.conj = v === '1'; if (it.conj && !it.comps.length) it.comps.push({ tipo:'Divisória', ref:'', qtd:0, c:0, l:0, a:0, qual:'' }); return desenharSO(box); }
+  if (t('[data-so-addc]')) { st.itens[+t('[data-so-addc]').dataset.soAddc].comps.push({ tipo:'Divisória', ref:'', qtd:0, c:0, l:0, a:0, qual:'' }); return desenharSO(box); }
+  if (t('[data-so-rmc]')) { const [i, j] = t('[data-so-rmc]').dataset.soRmc.split('.'); st.itens[+i].comps.splice(+j, 1); return desenharSO(box); }
+  if (t('[data-so-add]')) { if (st.itens.length < 25) st.itens.push(novoItemSO(st.itens.length + 1)); return desenharSO(box); }
+  if (t('[data-so-clonar]')) { if (st.itens.length >= 25) return; const u = st.itens[st.itens.length - 1]; st.itens.push({ ...JSON.parse(JSON.stringify(u)), n: st.itens.length + 1 }); return desenharSO(box); }
+  if (t('[data-so-rm]')) { st.itens.splice(+t('[data-so-rm]').dataset.soRm, 1); st.itens.forEach((it, i) => it.n = i + 1); return desenharSO(box); }
+  if (t('[data-so-prod]')) { const i = +t('[data-so-prod]').dataset.soProd, prods = st.cli ? (PRODUTOS_CLI[st.cli] || []) : [];
+    if (!prods.length) return toast(st.cli ? 'Este cliente ainda não tem produtos' : 'Busque o cliente primeiro');
+    const pr = prods[0], [c, l, a] = pr.med.split('×').map(Number); Object.assign(st.itens[i], { ref: pr.cod, c, l, a: a || 0, tipo: a ? 'MN' : 'CH', qual: pr.onda === 'BC' ? '1CR70BC' : pr.onda === 'B' ? '1CR40B' : '1CR40C', fech:'COLA' });
+    desenharSO(box); return toast('Produto da carteira: ' + pr.desc); }
+  const cor = e.target.closest('[data-so-cor]');
+  if (cor && e.target.tagName === 'INPUT') { const it = st.itens[+cor.dataset.soCor]; it.cores = e.target.checked ? it.cores.concat(e.target.value) : it.cores.filter(x => x !== e.target.value); e.target.closest('details').querySelector('summary').textContent = it.cores.length ? it.cores.join(', ') : 'Selecionar cores…'; return; }
+  if (t('[data-so-anexo]')) { st.anexos = (st.anexos || []).concat('arquivo-' + ((st.anexos || []).length + 1) + '.pdf'); return desenharSO(box); }
+  if (t('[data-so-enviar]')) {
+    const falta = [];
+    if (!st.tipo) falta.push('Tipo'); if (!st.nome) falta.push('Cliente'); if (!st.email) falta.push('E-mail do comprador'); if (!st.segmento) falta.push('Segmento');
+    if (!st.entrega && !st.usarEnd) falta.push('Local de entrega'); if (!st.prazo) falta.push('Prazo de pagamento');
+    st.itens.forEach(it => { const f = []; if (!it.ref) f.push('Referência'); if (!it.qtd) f.push('Qtde'); if (!it.c) f.push('C'); if (!it.l) f.push('L'); if (!it.qual) f.push('Cód. qualidade'); if (!it.fech) f.push('Fechamento'); if (!it.tipo) f.push('Tipo caixa'); if (f.length) falta.push(`Item ${it.n}: ${f.join(', ')}`); });
+    if (falta.length) { box.querySelector('.so-rodape span').innerHTML = `<b class="so-erro">Falta preencher:</b> ${esc(falta.join(' · '))}`; return toast('Preencha os campos obrigatórios (*)'); }
+    const n = 'SO-2026-' + String(Math.max(...SOLICITACOES.map(s => +s.p.slice(-4))) + 1).padStart(4, '0');
+    SOLICITACOES.unshift({ p:n, tipo:'Orçamento', cli: st.nome, novo: st.tipo === 'Prospect' && !st.cli, prod: st.itens.map(it => it.ref).join(', '), data:'27/11', etapa:0, resp:'Custos' });
+    document.querySelectorAll('[data-po-lista]').forEach(b => b._redesenha && b._redesenha());
+    box.innerHTML = `<div class="cl-novo-tela"><div class="okbox"><span>✓</span><span>Solicitação <b class="proto">${n}</b> enviada para <b>Custos</b> · ${st.itens.length} ${st.itens.length > 1 ? 'itens' : 'item'} · peso total ${n2(st.itens.reduce((a, it) => a + calcSO(it).pt, 0))} kg.<br>Você acompanha em Minhas solicitações.</span></div><div><button class="btn2" type="button" data-so-nova>Nova solicitação</button></div></div>`;
+  }
+  if (t('[data-so-nova]')) { box._preCli = null; TELAS.portalOrcamento(box); }
+}
 
 /* ── Pedir amostra / clichê / desenvolvimento (mesmo formulário, tipo diferente) ── */
 const telaPedidoSimples = (tipo, oQue, para) => (box) => {

diff --git a/README.md b/README.md
@@ -687,18 +687,23 @@ do sistema (com IA) respeitando o que cada usuário pode acessar.
 ### Portal do representante — primeira versão para aprovar
 - O representante vê **só o que é dele** (carteira, pedidos, comissões) e **nunca custo ou
   margem**, só preço. Não lança pedido nem cadastra cliente: faz **solicitações**.
-- **Solicitar orçamento** (o coração do Portal), em 4 blocos numa tela:
-  1. **Cliente:** da carteira (puxa contato e local de entrega) ou **cliente novo** (CNPJ com busca
-     na Receita + contato; Vendas cadastra depois).
-  2. **Produto:** **repetir** um que o cliente já compra (dizendo o que muda) ou **produto novo**:
-     escolhe o tipo com desenho (caixa normal, com tampa, corte e vinco, bandeja, chapa), medidas
-     internas, onda, papel, impressão, peso do conteúdo, empilhamento, ambiente (seco, úmido,
-     câmara fria) e FSC. "Não sei — Custos sugere" onde cabe.
-  3. **Quantidades:** escolhe várias (500, 1.000, 2.000, 5.000, 10.000…) — Custos devolve o preço
-     unitário de cada uma; preço-alvo do cliente, prazo e concorrente atual (opcionais).
-  4. **Anexos** (foto, desenho, arte) e observações.
-  Ao enviar: protocolo **SO-ano-número** e vai para Custos.
-- **Pedir amostra / clichê / desenvolvimento:** formulário curto, vai para Engenharia de produto.
+- **Solicitar orçamento:** **mesmo layout da "Solicitação de Orçamento" do CRM Salute** (ficha
+  RG 23 / Rev. 06), com as **cores do nosso ERP** (decisão do usuário). Ficha em grade:
+  cabeçalho (empresa · título · documento, data, **peso total**); Tipo (Cliente/Prospect) com
+  "Buscar informações de cliente"; Rep. resp.; CNPJ, cliente, endereço, nº, CEP, bairro, cidade,
+  UF, tel. 1 e 2, comprador(a), e-mail do comprador, concorrente, e-mail do rep., segmento, local
+  de entrega ("Usar end. do cliente" ou digitado) com distância, obs., prazo de pagamento.
+  **Informações do item** (Paletizado / A granel): por item — buscar produto, item, referência,
+  qtde, C, L, A, código de qualidade, fechamento (COLA/GRAMPO/S/F), cores, tipo de caixa
+  (MN/CV/CH/O), conjunto (componentes: caixa, colmeia, divisória, tabuleiro, separador, calço,
+  cantoneira, cinta), **área bruta, peso unitário, peso total e qtde mínima calculados** e preço
+  do concorrente; obs. por item; Adicionar item (até 25) e Clonar; anexos; legenda no rodapé.
+  Mesmas regras de cálculo do CRM Salute (chapa por tipo de caixa e onda; área × gramatura da
+  qualidade; qtde mín. = 500.000 / peso unit.). Campos obrigatórios conferidos ao enviar.
+  Listas (segmentos, prazos, qualidades) vieram do CRM Salute. Ao enviar: protocolo SO-ano-nº
+  para Custos.
+- **Pedir amostra / clichê / desenvolvimento:** vai para Engenharia de produto. Clichê e amostra vão seguir o
+  **layout do CRM Salute** também (aguardando os prints).
 - **Minhas solicitações:** todas, com etapa (Orçamento: Enviada → Em Custos → Preço pronto →
   Aprovada → Virou pedido). Com preço pronto mostra a tabela por quantidade, **PDF para o
   cliente** e **Cliente aceitou** (avisa Vendas). Campo de conversa com quem está tratando.
